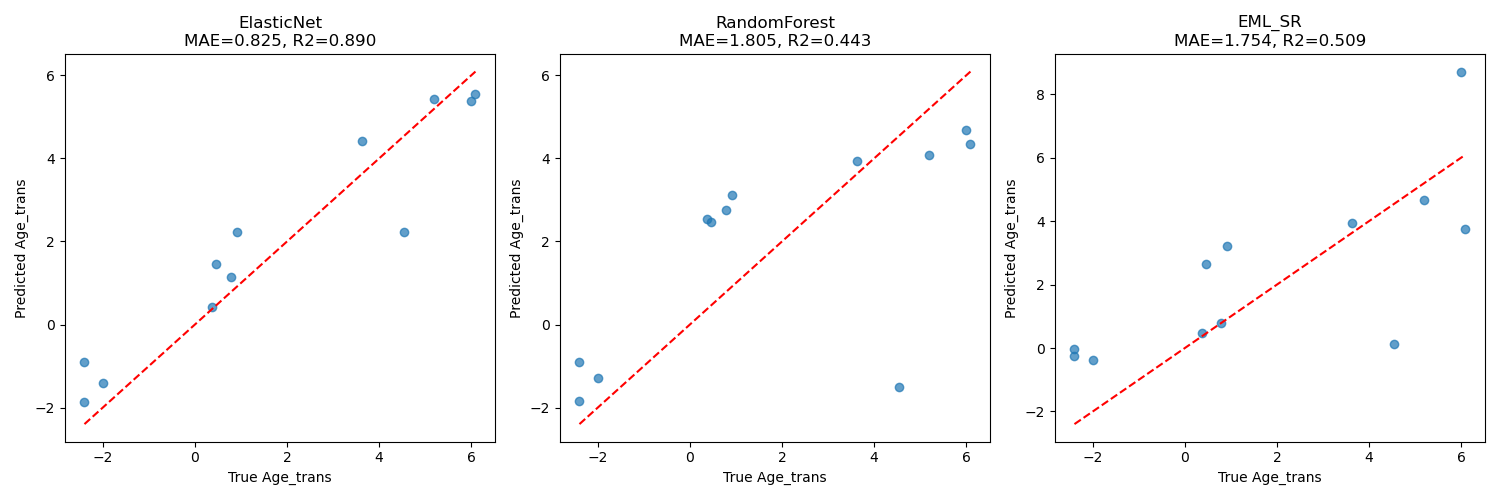
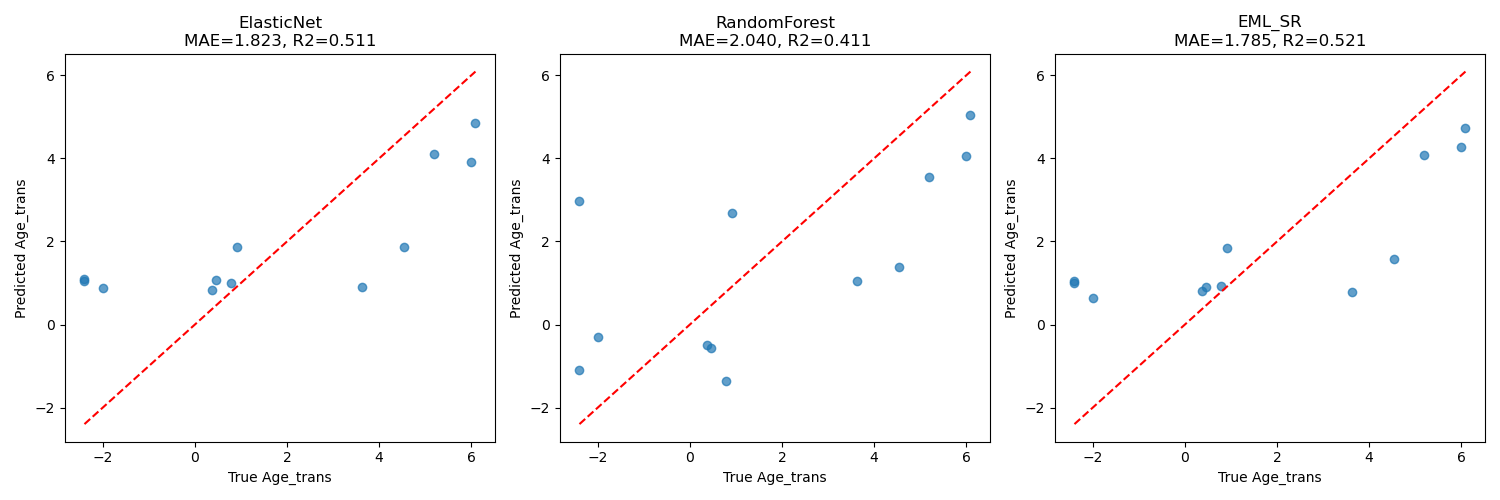
Updated MEb and eml-sr regression and report to use top 4 features exclusively

diff --git a/eml-sr_age_cheetah_AI/MEb_static_regression.py b/eml-sr_age_cheetah_AI/MEb_static_regression.py
@@ -132,15 +132,15 @@ def main():
     df = pd.read_csv('filtered_data.csv', index_col=0)
     y = df['Age_trans'].values
     
-    # Use top 3 CpGs from Elastic Net
-    top_cpgs = ['cg10501210', 'cg12544505.2', 'cg23090567']
+    # Use top 4 CpGs from Elastic Net
+    top_cpgs = ['cg10501210', 'cg12544505.2', 'cg23090567', 'cg10505126']
     X = df[top_cpgs].values
     
     X_train, X_test, y_train, y_test = train_test_split(X, y, test_size=0.2, random_state=42)
     print(f"Train size: {X_train.shape[0]}, Test size: {X_test.shape[0]}")
     
     print("Generating AST expressions...")
-    exprs = generate_expressions(max_depth=3, max_nodes=5, num_vars=3)
+    exprs = generate_expressions(max_depth=3, max_nodes=5, num_vars=4)
     print(f"Generated {len(exprs)} expressions.")
     
     best_aic = float('inf')

diff --git a/eml-sr_age_cheetah_AI/train_eml.py b/eml-sr_age_cheetah_AI/train_eml.py
@@ -15,8 +15,8 @@ def main():
     # Target is Age_trans
     y = df['Age_trans'].values
     
-    # X is all columns except Age and Age_trans
-    feature_cols = [c for c in df.columns if c not in ['Age', 'Age_trans']]
+    # Use top 4 features as requested
+    feature_cols = ['cg10501210', 'cg12544505.2', 'cg23090567', 'cg10505126']
     X = df[feature_cols].values
     
     # Split data (80% train, 20% test)
